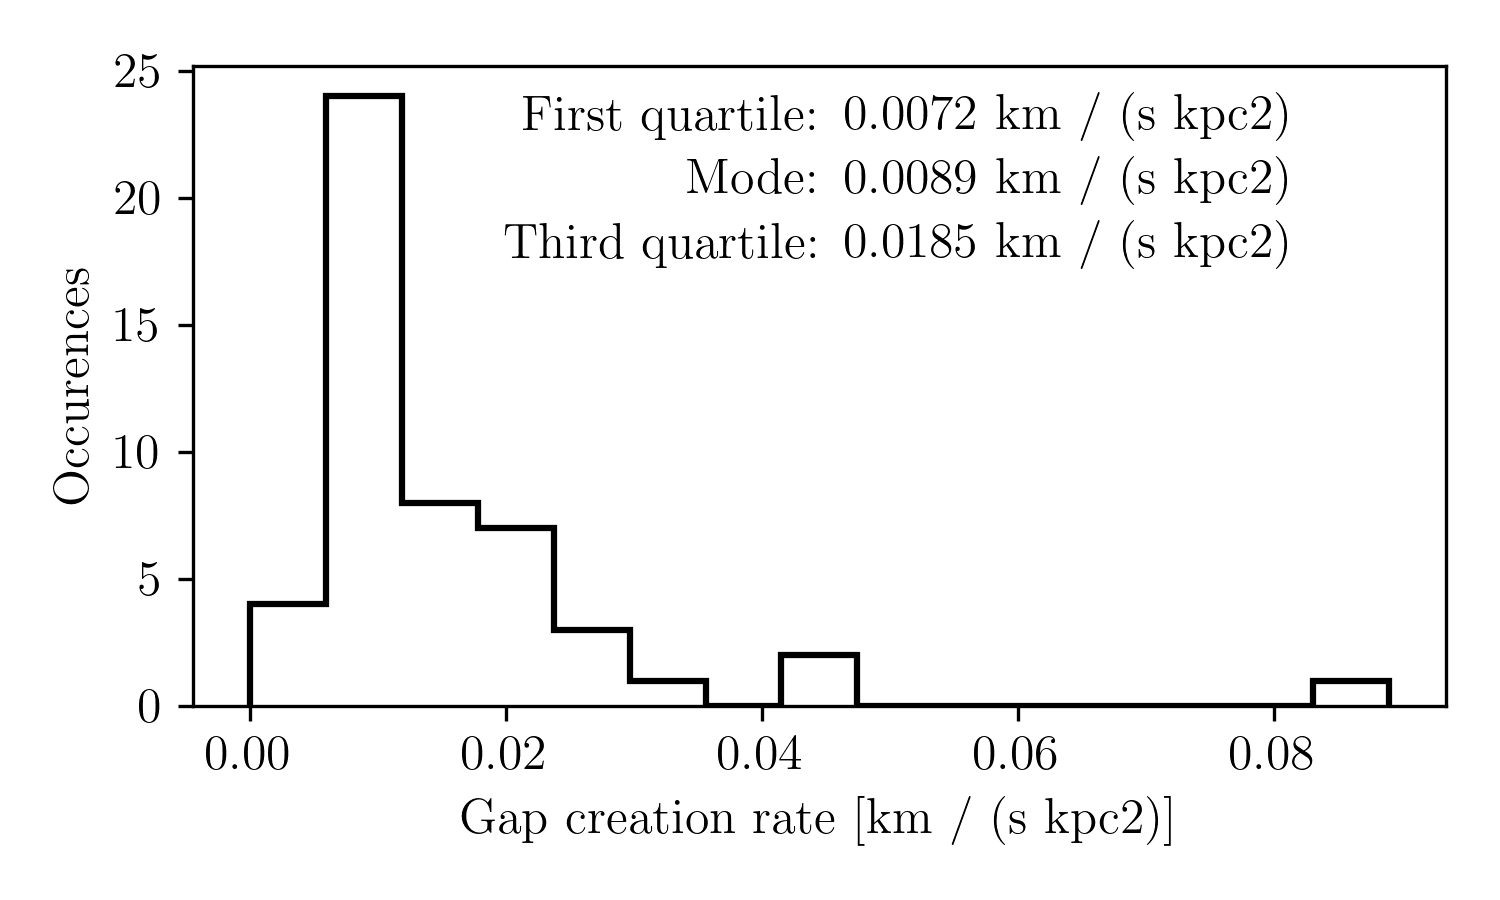
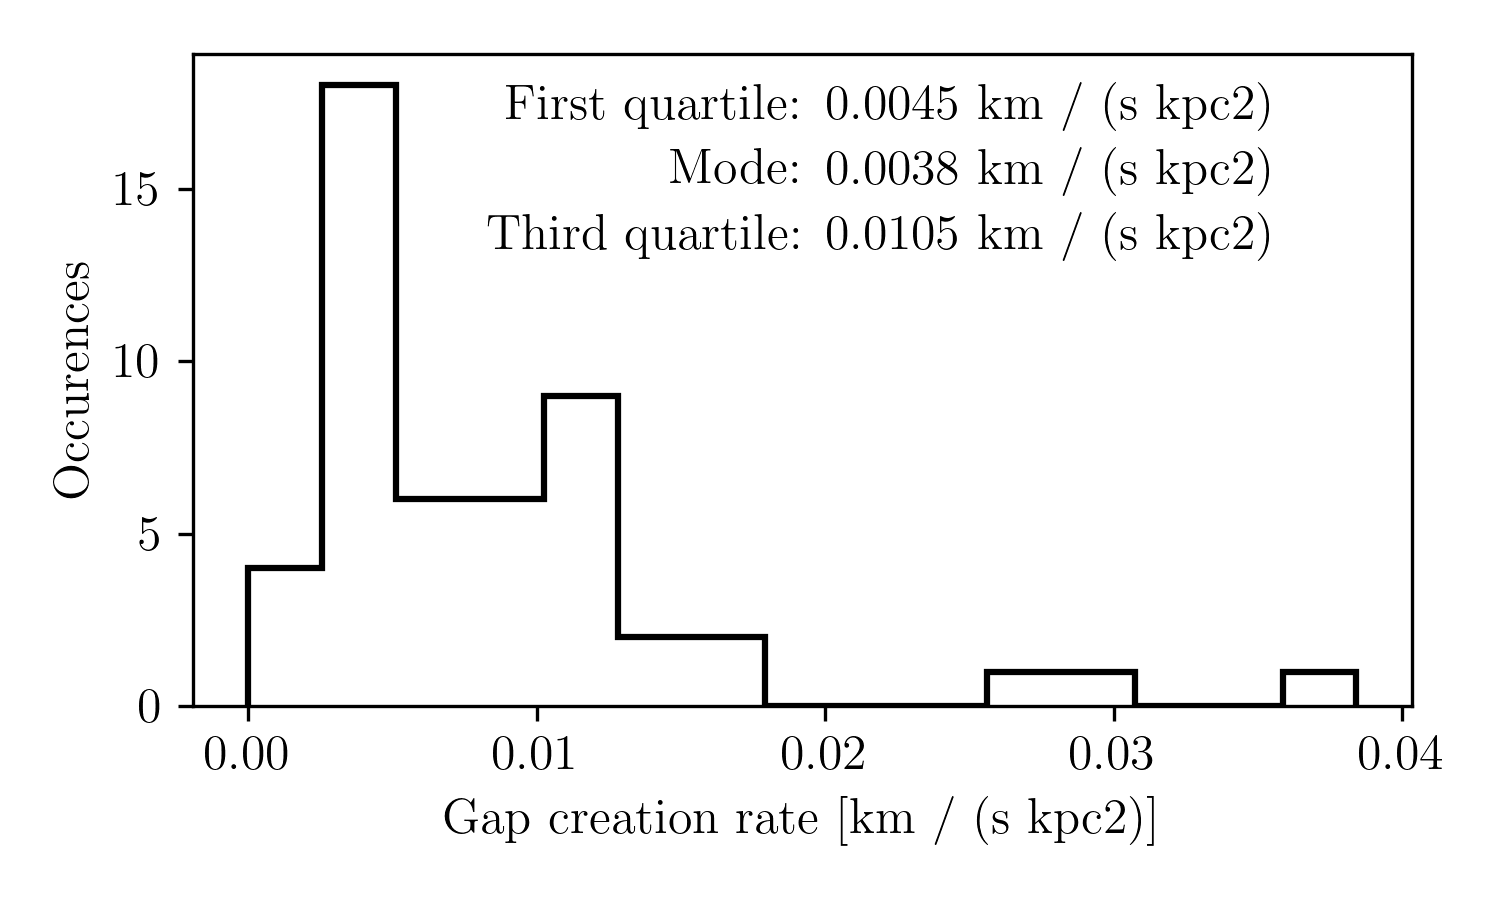
included gap creation rate and itemized the discussion

diff --git a/paper/main.tex b/paper/main.tex
@@ -239,26 +239,37 @@
       The bottom-right panel reveals a strong negative correlation between the location of impacts and the galactocentric radius, $r$. The number of gap creating impacts follows the relation $N = -2.5r + 50$, with a Pearson coefficient of -0.86. This is a non-obvious result. While there are more clusters near the galactic center, orbits naturally spend more time near their apocenters, and the lower relative velocities in these regions should favor gap creation. However, this result suggests that cluster galactic number density outweighs these factors in determining the number of gaps.
 
 
-      Lastly, \citet{2012ApJ...748...20C} conceptualized the number of gaps with a statistical quantity, the rate at which gaps are created per unit stream-length. For our simulations, this is given by:\begin{equation}
-      \mathcal{R}_{\textrm{Pal 5}} =  \frac{1}{T}\int_{0}^T l^{-1}(t) \sum_i \delta(t-t_i) dt,\end{equation}where $T$ is the total integration time, $l(t)$ is the length of the stream, and $\sum_i \delta(t-t_i)$ sums over the number of gap occurances, where the index $i$ iterates over the number of gaps in a given simulation since $\delta$ is the diract delta function. This can be simplified to:\begin{equation}\mathcal{R}_{\textrm{Pal 5}} =  \frac{1}{T} \sum_i \frac{1}{l (t_i)}. \end{equation}
+      Lastly, \citet{2012ApJ...748...20C} conceptualized the number of gaps using a statistical quantity: the rate at which gaps are created per unit stream length. For our simulations, this is given by: \begin{equation} \label{eq:gap_creation_rate}
+      \mathcal{R}_{\textrm{Pal 5}} =  \frac{1}{T}\int_{0}^T l^{-1}(t) \sum_i \delta(t-t_i) dt,\end{equation}where $T$ is the total integration time, $l(t)$ is the length of the stream, and $\sum_i \delta(t-t_i)$ sums over the gap occurrences, with $i$ indexing over the number of gaps in a given simulation. Here, $\delta$ represents the diract delta function. This expression can be simplified to:\begin{equation}\mathcal{R}_{\textrm{Pal 5}} =  \frac{1}{T} \sum_i \frac{1}{l (t_i)}. \end{equation}
+      This computation allows us to analyze the distribution of gap creation rates across all simulations. The results are shown in Fig.~\ref{fig:TailCoordinates}. This is roughly consistent with a simple estimate of the average gap creation rate: with 72 gaps over 5 Gyr of integration time for a stream about 20 kpc in length, the naive estimate is approximately 0.014~[km~s$^{-1}$~kpc$^{-2}$]. This is about double the weighted mean gap creation rate of 0.009~[km~s$^{-1}$~kpc$^{-2}$]. The naive estimate is higher because it does not account for the growth of the stream over time, unlike Eq.\ref{eq:gap_creation_rate}, where the likelihood of impacting a shorter stream is lower.
+
+      \begin{figure}
+        \centering
+        \includegraphics[width=\linewidth]{gap_creation_rate.png}
+        \caption{The distribution of the number of gaps normalized over the total integration time and unit stream length, as described by Eq.\ref{eq:gap_creation_rate}. }
+        \label{fig:TailCoordinates}
+      \end{figure}
+      
 
 
 
 
 \section{Discussion}
-    How many of these could be observable? What's the main result? in 5 billion years of evolution, perhaps you'd only expect to 1.4 gaps, reaching up to maximum three? However, its possible that we dont see gaps at all for sure. 
 
-    We do this for we attempt to quantify the number of gaps from globular clusters in the limit of maximum information. I.e. we are not limited by contamination of field stars, and since we are computing our own simulations, we know what a gapless stream should look like. 
-
-
-    What about drawing attention to future studies? 
-
-    Doing a complete census of all globular clusters? 
-
-    Doing a complete census of dark matter subhaloes? 
-
-    How many gaps do you expect to see in Palomar 5? Bonaca said there are about 2 of them. 
-
+    \begin{itemize}
+      \item Would these gaps be observable? We are in the max info limit, what about observational difficulties?
+      \item the detected track of Palomar 5 is much shorter than my simulations. Does this mean cluster gaps sould excedingly rare?
+      \item What about Carlberg's Pal 5 gap paper? 
+      \item What about Bonaca's Pal 5 gap paper?
+      \item future works?
+      \item bars substructure?
+      \item What else?
+      \begin{itemize}
+        \item Doing a complete census of all globular clusters?
+        \item doing a compelte census of all observed streams? 
+        \item comparing to dark matter subhaloes?
+        \end{itemize}
+      \end{itemize}
 
 
 
